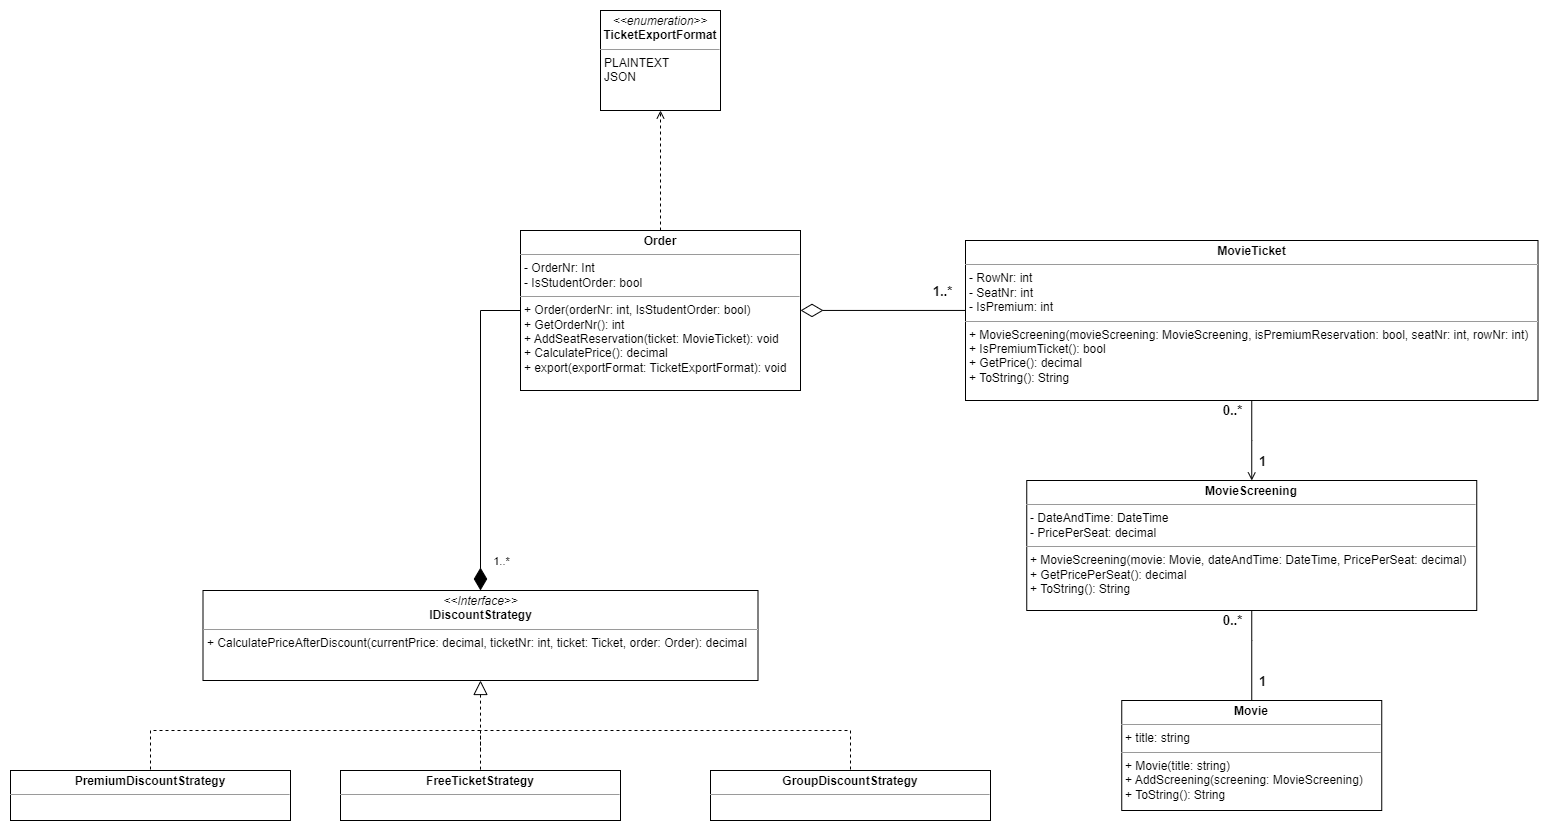
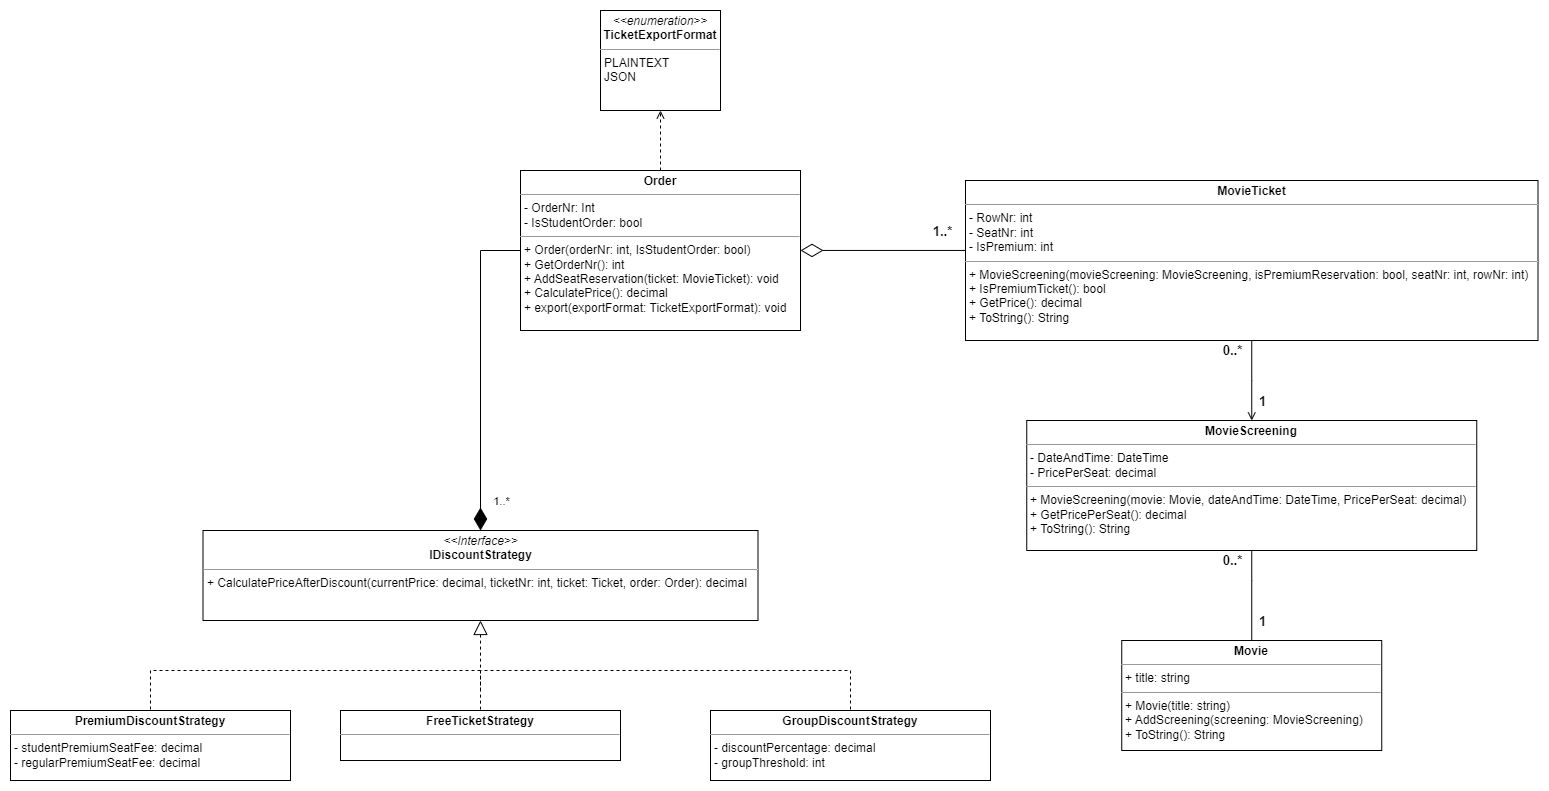
updated strategy pattern diagram

diff --git a/README.md b/README.md
@@ -2,12 +2,17 @@
 > Voorbeeld casusopdracht over een bioscoopsysteem die tijdens ontwikkeling we stap voor stap een steeds complexer wordt.
 > Deze applicatie is gemaakt voor het vak  Softwareontwerp & -architectuur 3 en dient als oefenopdracht.
 
-## De Basis
+## 1. De Basis
 De basis van de applicatie is een domein die de modellen van de applicatie bevat. Deze bevatten enkele logica bijvoorbeeld voor het berekenen van de prijs van een bestelling.
 
 ![Basis Ontwerp Bioscoop](SOA3Bioscoop.Docs/assets/UML-basisontwerp-bioscoop.png)
 
-## Testen [![Coverage](https://sonarcloud.io/api/project_badges/measure?project=B1naryB0ys_SOA3_Bioscoop&metric=coverage)](https://sonarcloud.io/summary/new_code?id=B1naryB0ys_SOA3_Bioscoop)
+## 2. Testen [![Coverage](https://sonarcloud.io/api/project_badges/measure?project=B1naryB0ys_SOA3_Bioscoop&metric=coverage)](https://sonarcloud.io/summary/new_code?id=B1naryB0ys_SOA3_Bioscoop)
 Het testen van de code word gedaan met behulp van xUnit unit testen en de code quality controles van SonarCloud. De testcases zijnj opgesteld aan de hand van een begrip voor alle mogelijke paden die een algoritme kan aflopen (TMAP)
 
 ![Testcases Bioscoop](SOA3Bioscoop.Docs/assets/testcases.png)
+
+## 3. Strategy pattern
+Het toepassen van de verschillende kortingsregels kan worden bereikt door een strategy pattern in het domein te integreren
+
+![Strategy pattern ontwerp bioscoop](SOA3Bioscoop.Docs/assets/UML-ontwerp-strategy-pattern.png)
